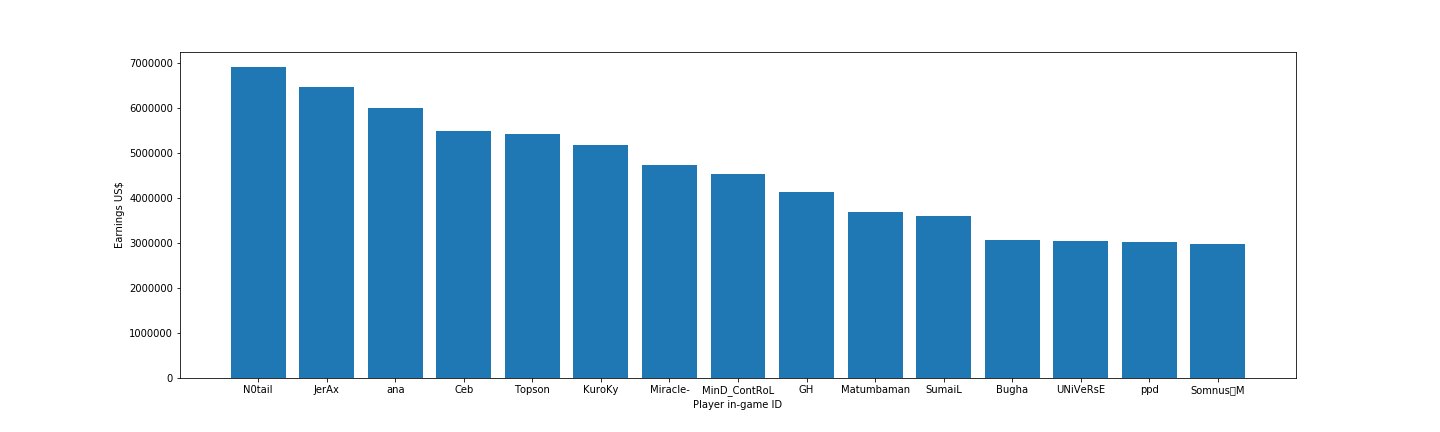
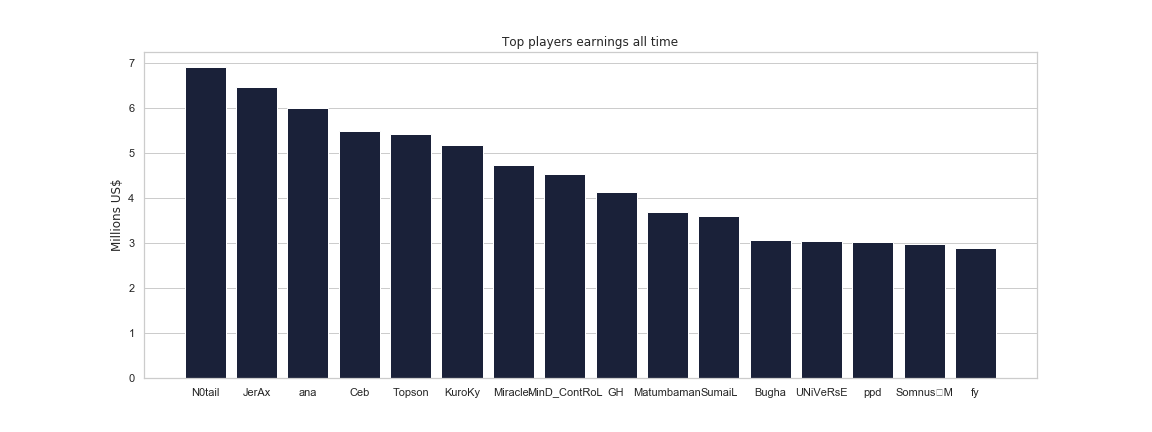
update webapp images

diff --git a/shiny/www/index.html b/shiny/www/index.html
@@ -107,11 +107,13 @@
                     electronic game competitions have gained momentum in Internet cafes and have become popular 
                     beyond North America, gaining space in Europe and Asia - especially in 
                     <a href="https://www.nytimes.com/2014/10/20/technology/league-of-legends-south-korea-epicenter-esports.html"><b>South Korea</b>, 
-                      today considered by many the esports capital of the world</a>. 
+                    today considered by many the esports capital of the world</a>. 
                     However, it was only around in the past decade that game developers began to invest heavily 
                     in electronic game championships, giving rise to professional leagues and players and 
                     live broadcasts of tournaments in the internet.
                     These all paved the way for the current phenomenon of Esports.</p>
+                  <p><p>Given how the lockdown has led to a boom in esports’ viewership, 
+                    we can only presume this industry will continue to grow.</p>
                   <br>
               </div>
           </div>
@@ -133,15 +135,23 @@
                   Successful pro gamers can earn six figure salaries or even millions. 
                   Top players often start professionally around age 16 or 17, and then tend to retire around age 24.
                   Generally, esports professionals start and end their careers much earlier than the average professional athlete.</p>
-                <img src="images/U18_earnings.png" class="img-fluid" alt="U18_earnings">
-                <figcaption class="figure-caption">Players earnings under 18 years of age.</figcaption>
-                <p>And given how the lockdown has led to a boom in esports’ viewership, we can only presume this cashflow will continue to grow.
-                  Up to this point, 2020 has seen the prize money pot hit $32.5 million. 
-                  While this pales in comparison to the total prize pool of $227 million in 2019 as a whole, 
-                  the cancellation and postponement of countless events–plus a busy end-of-year calendar–has pushed big-money 
-                  prizes back to later in the 2020, or will roll over to create a bumper 2021 pot.</p>
                 <img src="images/topPlayers.png" class="img-fluid" alt="topPlayers">
-                <p>The top players countries</p>
+                <img src="images/U18_earnings.png" alt="U18_earnings">
+                <p>Up to this point, 2020 has seen the prize money pot hit $37.8 million. 
+                  This pales in comparison to the total prize pool of $837 million since 1998 mainly because of the global pandemic.
+                  For many big esports titles, the prize pool dollars are meaningful - 
+                  and above that of various traditional sports. 
+                  Dota 2’s flagship event, The International, has long-held and annually broken the record for 
+                  largest single-event esports prize pool, most recently totaling $34.3 million in 2019. 
+                  This beats all other esports and sports events, including even the Super Bowl, 
+                  where each winning player sees a little over $118,000.
+                  Tencent-backed Epic Games’ recent hit title Fortnite’s World Cup had a final event prize pool of 
+                  $30 million. While this isn’t quite the total prize pool of The International, 
+                  the Fortnite World Cup had the biggest single-player payout of all time. 
+                  The first prize winner of the Solo Finals became $3 million richer. 
+                  There’s real money on the line at esports events. And lots of it. 
+                  This has made the competition even more high stakes, bringing in even more viewers.</p>
+                <img src="images/gamesgenresPrizePool.png" class="img-fluid" alt="gamesgenresPrizePool">
                 <img src="images/countriesEarnings.png" class="img-fluid" alt="countriesEarnings">
                 <br><br>
                 <h4 class="ftco-38-heading">Female Players</h4>
@@ -796,6 +806,7 @@
               <div>https://edition.cnn.com/2018/08/27/us/esports-what-is-video-game-professional-league-madden-trnd/index.html</div>
               <div>https://www.toptal.com/finance/market-research-analysts/esports</div>
               <div>https://www.esports.net/news/the-billion-dollar-opportunity-of-esports/</div>
+              <div>https://www.roundhillinvestments.com/research/esports/esports-viewership-vs-sports</div>
             </div>
           </div>
         </div> 

diff --git a/dataManipulation/dataManipulation.py b/dataManipulation/dataManipulation.py
@@ -4,6 +4,7 @@ import matplotlib.pyplot as plt
 import seaborn as sns
 from matplotlib.ticker import FuncFormatter
 import numpy
+import squarify
 
 
 # import data sets
@@ -13,6 +14,11 @@ earningsCountry = pd.read_csv(
 countryEarnings = pd.read_csv('../scrapy/countryEarnings/countryEarnings.csv')
 femalePlayers = pd.read_csv('../scrapy/femalePlayers/femalePlayers.csv')
 earningsU18 = pd.read_csv('../scrapy/earningsU18/U18_players.csv')
+gamesRankings = pd.read_csv('../scrapy/gameRankings/gameRankings.csv')
+
+# plots fonts
+osaka = {'fontname': 'Osaka'}
+
 
 #=============================================================================#
 # plot1 - countries ranking by total earnings
@@ -40,31 +46,54 @@ earningsHistory.groupby('year')['totalYear'].sum().sort_values(
 
 #=============================================================================#
 # plot3 - most successful players
-plt.figure(figsize=(20, 6))
+plt.figure(figsize=(16, 6))
 topPlayers_df = earningsCountry.sort_values(
-    'totalOverall', ascending=False).head(15)
+    'totalOverall', ascending=False).head(16)
 
 topPlayers_plot = plt.bar(
-    topPlayers_df['playerID'], topPlayers_df['totalOverall'])
-plt.xlabel('Player in-game ID')
-plt.ylabel('Earnings US$')
+    topPlayers_df['playerID'], topPlayers_df['totalOverall']/1e6, color='#1a2139')
+plt.title('Top players earnings all time', ** osaka)
+plt.ylabel('Millions US$', **osaka)
+plt.grid(b=None, axis='x')
 
 plt.savefig('../shiny/www/images/topPlayers.png')
 
 
 #=============================================================================#
 # plot4 - games rank by prize money
-plt.figure(figsize=(12, 6))
-earningsCountry.groupby('game')['totalOverall'].sum().sort_values(
-    ascending=False).head(20).plot.bar(color='r')
+fig, (ax1, ax2) = plt.subplots(1, 2, figsize=(24, 10), tight_layout=True)
 
-plt.savefig('../shiny/www/images/topGames_prizepool.png')
+gr_df = gamesRankings.sort_values('totalOverall', ascending=False)
+genresR_df = gamesRankings.groupby('genre').sum(
+).sort_values('totalOverall', ascending=False).reset_index()
+# some games names are too long, need to shorten them
+gr_df.loc[gr_df['game'] == 'PLAYERUNKNOWN’S BATTLEGROUNDS', 'game'] = 'PUBG'
+gr_df.loc[gr_df['game'] == 'Counter-Strike: Global Offensive', 'game'] = 'CS:GO'
+gr_df.loc[gr_df['game'] == 'Heroes of the Storm', 'game'] = 'HOTS'
+gr_df.loc[gr_df['game'] == 'Arena of Valor', 'game'] = 'AoV'
+
+color = ['#f73a18', '#C72508', '#AD351F', '#BD4631',
+         '#A64230', '#F05F46', '#AB5141', '#96230F', '#993D2C', '#CF523C']
+color2 = ['#1a2139', '#7B839E', '#183185', '#040A1C',
+          '#688AFC', '#717582', '#223D94', '#575E75', '#2154FC', '#233982']
+
+plt.subplot(1, 2, 1)
+squarify.plot(sizes=gr_df.totalOverall.head(
+    10), label=gr_df.game.head(10), color=color, text_kwargs={'fontsize': 15, 'color': 'white'})
+plt.title('Game titles by prize pool', ** osaka)
+plt.axis('off')
+
+plt.subplot(1, 2, 2)
+squarify.plot(sizes=genresR_df.totalOverall.head(
+    10), label=genresR_df.genre.head(10), color=color2, text_kwargs={'fontsize': 15, 'color': 'white'})
+plt.title('Genres by prize pool', ** osaka)
+plt.axis('off')
+
+plt.savefig('../shiny/www/images/gamesgenresPrizePool.png')
 
 
 #=============================================================================#
-# plot5 - top game by year
-plt.figure(figsize=(12, 6))
-earningsHistory.groupby('year')['totalOverall', 'game']
+# plot5 - genres rank by prize money
 
 
 #=============================================================================#
@@ -99,9 +128,22 @@ U18earnings_df['totalOver18'] = U18earnings_df['totalOverall'] - \
     U18earnings_df['totalU18']
 
 # ---------plot
-plt.figure(figsize=(12, 6))
-plt.bar(U18earnings_df.playerID.head(10), U18earnings_df.totalU18.head(10))
-plt.bar(U18earnings_df.playerID.head(10), U18earnings_df.totalOver18.head(10),
-        bottom=U18earnings_df.totalU18.head(10))
+plt.figure(figsize=(16, 6))
+
+p1 = plt.bar(U18earnings_df.playerID.head(
+    15), U18earnings_df.totalU18.head(15)/1e6, color='#f73a18')
+p2 = plt.bar(U18earnings_df.playerID.head(15), U18earnings_df.totalOver18.head(15)/1e6,
+             bottom=U18earnings_df.totalU18.head(15)/1e6, color='#1a2139')
+plt.title('Top players with earnings under 18 years of age', ** osaka)
+plt.ylabel('Millions US$', **osaka)
+plt.xticks(U18earnings_df.playerID.head(15), **osaka)
+plt.legend((p1[0], p2[0]), ('Under 18', 'Over 18'))
+plt.grid(b=None, axis='x')
 
 plt.savefig('../shiny/www/images/U18_earnings.png')
+
+
+#=============================================================================#
+# plot9 - top game by year
+plt.figure(figsize=(12, 6))
+earningsHistory.groupby('year')['totalOverall', 'game']
